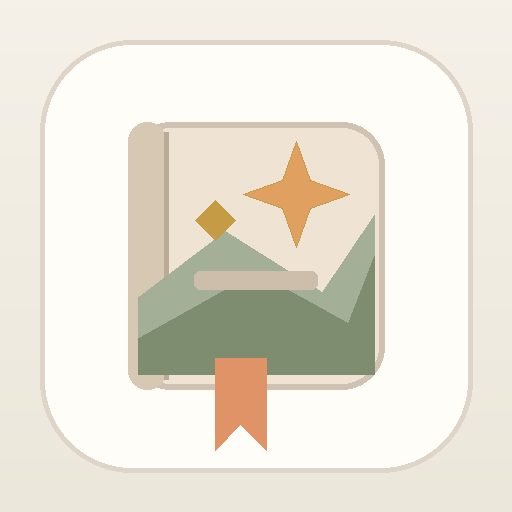
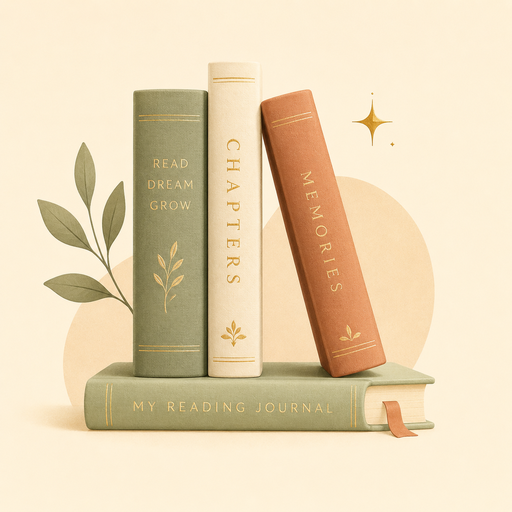
Add files via upload

diff --git a/index.html b/index.html
@@ -1462,6 +1462,62 @@ body,.phone{background:var(--paper)!important;color:var(--ink)!important}
   .backupActionsNew{grid-template-columns:1fr}
 }
 
+
+
+/* ===== v35 field refresh ===== */
+.fieldPageV35{gap:20px}
+.fieldHeroV35New{background:var(--card);border:1px solid var(--line);border-radius:34px;padding:18px;box-shadow:0 14px 32px rgba(85,73,57,.08)}
+.fieldHeroTopV35{display:grid;grid-template-columns:auto minmax(0,1fr) 112px;gap:14px;align-items:start}
+.fieldHeroTextV35 h2{margin:4px 0 0;font-size:33px;line-height:1.04;color:#304131;font-weight:950}
+.fieldHeroAuthorV35{margin-top:6px;color:var(--muted);font-size:16px;font-weight:750}
+.fieldHeroTextV35 p{margin:12px 0 0;color:var(--muted);font-size:15px;line-height:1.55;max-width:42ch}
+.fieldHeroCoverV35 .cover{min-height:146px;border-radius:24px;padding:12px}
+.fieldHeroCoverV35 .coverTitle{font-size:22px}
+.fieldHeroChipsV35{display:flex;flex-wrap:wrap;gap:10px;margin-top:14px}
+.fieldInfoChipV35{display:inline-flex;align-items:center;gap:6px;padding:9px 14px;border-radius:999px;background:#f4efe6;border:1px solid var(--line);color:#6b6357;font-size:13px;font-weight:850}
+.fieldInfoChipV35 b{font-size:14px;color:#304131}
+.fieldSnapshotGridV35{display:grid;grid-template-columns:repeat(2,minmax(0,1fr));gap:10px;margin-top:16px}
+.fieldSnapshotV35{background:#fcfaf5;border:1px solid var(--line);border-radius:22px;padding:14px 15px;display:grid;gap:6px;min-height:110px}
+.fieldSnapshotV35 span{font-size:12px;font-weight:900;letter-spacing:.06em;text-transform:uppercase;color:#aba092}
+.fieldSnapshotV35 strong{font-size:24px;line-height:1.1;color:#2f4331;font-weight:900}
+.fieldSnapshotV35 small{font-size:13px;line-height:1.45;color:var(--muted);font-weight:700}
+.fieldGridV35{display:grid;grid-template-columns:repeat(2,minmax(0,1fr));gap:16px}
+.fieldCardV35{background:var(--card);border:1px solid var(--line);border-radius:30px;padding:18px;box-shadow:0 12px 28px rgba(85,73,57,.06)}
+.fieldCardV35.span2{grid-column:1/-1}
+.fieldCardHeadV35{display:flex;align-items:flex-start;justify-content:space-between;gap:12px;margin-bottom:14px}
+.fieldCardHeadV35 h3{margin:0;color:#2f4331;font-size:23px;font-weight:900}
+.fieldCardHeadV35 p{margin:6px 0 0;color:var(--muted);font-size:14px;line-height:1.45}
+.fieldCardHeadV35.split{align-items:center}
+.fieldLeadValueV35{font-size:46px;line-height:1;color:#2d2b26;font-weight:800;white-space:nowrap}
+.progressCardV35 .editorPercentRow.compact{grid-template-columns:94px 1fr;align-items:center}
+.fieldProgressSplitV35{display:grid;grid-template-columns:minmax(0,.72fr) minmax(0,1.28fr);gap:14px}
+.fieldProgressColumnV35{display:grid;gap:10px}
+.fieldProgressColumnV35 label{font-size:13px;font-weight:900;color:#6f675c}
+.fieldTinyNoteV35,.fieldTipV35{color:var(--muted);font-size:13px;line-height:1.45}
+.editorTextArea.tall{min-height:150px}
+.fieldMoodCurrentV35{margin-bottom:12px;padding:12px 14px;border-radius:18px;background:#f6f1e7;border:1px solid var(--line);font-size:14px;color:#6d6559;font-weight:800}
+.fieldMoodCurrentV35 b{color:#304131}
+.fieldTagsV35{gap:10px}
+.fieldCardFooterV35{display:flex;align-items:center;justify-content:space-between;gap:12px;flex-wrap:wrap;margin-top:12px}
+.fieldCharacterStripV35{margin-bottom:14px}
+.fieldSelectedCharV35{background:#f7f2e8;border:1px solid var(--line)}
+.fieldSelectedCharTopV35{display:flex;align-items:flex-start;justify-content:space-between;gap:12px;margin-bottom:10px}
+.fieldSelectedCharNameV35{font-size:19px;font-weight:900;color:#2d2a25}
+.fieldSelectedCharMetaV35{padding:8px 12px;border-radius:999px;background:#fbf7f0;border:1px solid var(--line);font-size:13px;color:#6b6357;font-weight:800}
+.fieldSubSectionTitleV35{font-size:18px;font-weight:900;color:#2f4331;margin-bottom:10px}
+.fieldMomentsListV35{gap:12px}
+.fieldMomentsListV35 .momentCardNew{background:#fcfaf5}
+@media (max-width:720px){
+  .fieldHeroTopV35{grid-template-columns:auto 1fr}
+  .fieldHeroCoverV35{grid-column:1/-1;max-width:120px}
+  .fieldGridV35,.fieldProgressSplitV35{grid-template-columns:1fr}
+}
+@media (max-width:420px){
+  .fieldHeroTextV35 h2{font-size:29px}
+  .fieldLeadValueV35{font-size:40px}
+  .fieldSnapshotGridV35{grid-template-columns:1fr}
+}
+
 </style>
 </head>
 <body>
@@ -1726,7 +1782,7 @@ function miniIcon(type){
     return `<span class="ratingSvg"><svg viewBox="0 0 24 24" aria-hidden="true"><path fill="currentColor" d="M12 3.8l2.4 4.9 5.4.8-3.9 3.8.9 5.4-4.8-2.5-4.8 2.5.9-5.4L4.2 9.5l5.4-.8L12 3.8z"/></svg></span>`;
   }
   if(type==='pepper'){
-    return `<span class="ratingSvg"><svg viewBox="0 0 24 24" aria-hidden="true"><path fill="currentColor" d="M13.7 6.2c3.7 1.1 6.2 4.7 5.2 8.4-.8 3.1-3.6 5.4-7.1 5.7-2.7.2-5.2-.7-6.7-2.4-1.4-1.6-1.6-3.7-.4-5.1.9-1.1 2.2-1.3 3.7-1.2.7.1 1.2-.2 1.4-.9.6-2.2 1.8-3.8 3.9-4.5z"/><path fill="#ffb45f" d="M13.3 6.8c-.4-2.3.6-3.9 2.8-4.7.6-.2 1.1.4.8 1-.5.8-.8 1.5-.7 2.4 1-.6 2-.5 3 .2.6.4.4 1.3-.3 1.4-1.9.3-3.5.3-5.6-.3z"/></svg></span>`;
+    return `<span class="ratingSvg"><svg viewBox="0 0 24 24" aria-hidden="true"><path fill="currentColor" d="M12.7 2.7c2.3 3 .9 5.2-.2 6.7 2.6-.2 5 1 6.4 3.1 1.8 2.7 1.6 6.4-.5 8.9-1.6 2-4 3.1-6.6 3.1-2.2 0-4.4-.9-6-2.4-3.1-2.9-3.1-8-.1-11.3 1-1 2.1-1.7 3.4-2.1-.2-1.8.4-3.9 2.4-6 .3-.3.9-.3 1.2 0z"/><path fill="#ffb45f" d="M12.4 6.1c.8 1.6.5 3.3-.6 4.8-.5.7-.1 1.6.8 1.6 1.9-.1 3.6.7 4.5 2.1 1.2 1.8 1 4.4-.5 6-1 1.2-2.5 1.8-4.1 1.8-1.4 0-2.9-.5-3.9-1.5-2-1.8-2-5.2 0-7.4 1-1.1 2.3-1.7 3.8-1.8-.7-1.6-.7-3.4 0-5.6z"/></svg></span>`;
   }
   if(type==='broken'){
     return `<span class="ratingSvg"><svg viewBox="0 0 24 24" aria-hidden="true"><path fill="currentColor" d="M11.3 20.2s-6.9-4.3-8.8-8.7C1 8.1 1.1 4.7 4.2 3.3c2-.9 3.8 0 5 1.4l1.7 2.3-2 2.4 2.5 2.1-1.7 3.2 3.2-3.5-2.3-2 2-2.8c.9-1.9 3-4.2 6.1-3 3.1 1.2 3.2 4.8 1.7 8.1-1.9 4.4-8.8 8.7-8.8 8.7l-.3-.2z"/></svg></span>`;
@@ -1769,48 +1825,135 @@ function renderField(){
   const c=S.current;
   if(!c){document.getElementById('field').innerHTML='';return}
   const selectedChar=(c.characters||[]).find(x=>x.id===editingCharId)||null;
+  const updatesCount=(c.updates||[]).length;
+  const quoteCount=(c.updates||[]).filter(u=>u.type==='quote').length;
+  const noteCount=(c.updates||[]).filter(u=>u.type==='note').length;
+  const mood=c.lastMood||'עוד לא נשמר וייב';
+  const charCount=(c.characters||[]).length;
   document.getElementById('field').innerHTML=`
-    <div class="fieldPageNew">
-      <div class="fieldHeaderNew">
-        <button class="iconBtn" onclick="show('home')">${uiIcon('arrow')}</button>
-        <div class="fieldHeaderText"><div class="eyebrow">עדכון מהשטח</div><h2>${esc(c.title)}</h2><p>${esc(c.author)}</p></div>
-        <div class="fieldHeaderCover">${coverHtml(c.title,c.author)}</div>
-      </div>
-      <div class="editorPanelGrid">
-        <section class="editorCard wide">
-          <div class="editorCardHead"><div><h3>איפה אני עכשיו?</h3><p>עדכון מהיר של אחוז ומחשבה קצרה מהקטע האחרון.</p></div><strong>${pct(c.percent)}%</strong></div>
-          <div class="editorPercentRow"><input id="percentInput" class="input" type="number" min="0" max="100" value="${pct(c.percent)}"><button class="saveBtn" onclick="savePercent()">שמירה</button></div>
-          <textarea id="percentNote" class="textarea editorTextArea" placeholder="מחשבה קצרה? לא חובה"></textarea>
+    <div class="fieldPageNew fieldPageV35">
+      <section class="fieldHeroV35New">
+        <div class="fieldHeroTopV35">
+          <button class="iconBtn" onclick="show('home')">${uiIcon('arrow')}</button>
+          <div class="fieldHeroTextV35">
+            <div class="eyebrow">עדכון מהשטח</div>
+            <h2>${esc(c.title)}</h2>
+            <div class="fieldHeroAuthorV35">${esc(c.author)}</div>
+            <p>כאן את שומרת את כל מה שקורה תוך כדי קריאה — בלי לפזר את זה בין מסכים.</p>
+            <div class="fieldHeroChipsV35">
+              <span class="fieldInfoChipV35"><b>${pct(c.percent)}%</b> התקדמות</span>
+              <span class="fieldInfoChipV35">${esc(mood)}</span>
+              <span class="fieldInfoChipV35">${updatesCount} רגעים שמורים</span>
+            </div>
+          </div>
+          <div class="fieldHeroCoverV35">${coverHtml(c.title,c.author)}</div>
+        </div>
+        <div class="fieldSnapshotGridV35">
+          <div class="fieldSnapshotV35"><span>אחוז נוכחי</span><strong>${pct(c.percent)}%</strong><small>עדכון אחד קטן והכול נשמר בציר.</small></div>
+          <div class="fieldSnapshotV35"><span>מה הוייב</span><strong>${esc(mood)}</strong><small>אפשר לבחור תגית קיימת או להוסיף משלך.</small></div>
+          <div class="fieldSnapshotV35"><span>דמויות</span><strong>${charCount}</strong><small>${charCount?`כרגע יש ${charCount} דמויות שמורות.`:'עוד לא נוספו דמויות.'}</small></div>
+          <div class="fieldSnapshotV35"><span>רגעים שמורים</span><strong>${updatesCount}</strong><small>${quoteCount} ציטוטים · ${noteCount} רגעי עלילה</small></div>
+        </div>
+      </section>
+
+      <div class="fieldGridV35">
+        <section class="fieldCardV35 span2 progressCardV35">
+          <div class="fieldCardHeadV35 split">
+            <div>
+              <h3>איפה אני עכשיו?</h3>
+              <p>עדכון מהיר של האחוז יחד עם מחשבה קטנה מהקטע האחרון.</p>
+            </div>
+            <div class="fieldLeadValueV35">${pct(c.percent)}%</div>
+          </div>
+          <div class="fieldProgressSplitV35">
+            <div class="fieldProgressColumnV35">
+              <label>אחוז נוכחי</label>
+              <div class="editorPercentRow compact">
+                <input id="percentInput" class="input" type="number" min="0" max="100" value="${pct(c.percent)}">
+                <button class="saveBtn" onclick="savePercent()">שומרת</button>
+              </div>
+              <div class="fieldTinyNoteV35">אפשר לעדכן רק אחוז, ואפשר להוסיף גם מחשבה קטנה.</div>
+            </div>
+            <div class="fieldProgressColumnV35">
+              <label>מה נשאר לי מהקטע האחרון?</label>
+              <textarea id="percentNote" class="textarea editorTextArea" placeholder="מחשבה קצרה? משפט אחד גם מספיק"></textarea>
+            </div>
+          </div>
         </section>
-        <section class="editorCard">
-          <div class="editorCardHead"><div><h3>מה הוייב?</h3><p>אפשר לבחור תגית מהרשימה, או להוסיף תגית משלך שתישמר גם לספרים הבאים.</p></div></div>
-          <div class="tagsWrap">${allMoodTags().map(m=>`<button class="tagChipNew ${c.lastMood===m?'on':''}" onclick="saveMood('${jsEsc(m)}')">${esc(m)}</button>`).join('')}</div>
-          <div class="editorActionsRow"><button class="secondaryPill tagAddBtn" onclick="addCustomMoodTag()">+ תגית וייב משלי</button></div>
+
+        <section class="fieldCardV35">
+          <div class="fieldCardHeadV35">
+            <div>
+              <h3>מה הוייב?</h3>
+              <p>בחרי תגית אחת שמסכמת את ההרגשה כרגע.</p>
+            </div>
+          </div>
+          <div class="fieldMoodCurrentV35">כרגע: <b>${esc(mood)}</b></div>
+          <div class="tagsWrap fieldTagsV35">${allMoodTags().map(m=>`<button class="tagChipNew ${c.lastMood===m?'on':''}" onclick="saveMood('${jsEsc(m)}')">${esc(m)}</button>`).join('')}</div>
+          <div class="fieldCardFooterV35">
+            <div class="fieldTipV35">תגיות וייב שתוסיפי יישמרו גם לספרים הבאים.</div>
+            <button class="secondaryPill tagAddBtn" onclick="addCustomMoodTag()">+ תגית וייב משלי</button>
+          </div>
         </section>
-        <section class="editorCard">
-          <div class="editorCardHead"><div><h3>מה קורה עכשיו?</h3><p>רגע קצר לשמור מהעלילה, בלי לסבך אותך.</p></div></div>
-          <textarea id="noteText" class="textarea editorTextArea" placeholder="מה קרה עכשיו בספר? מי עצבן? מי ריגש? מה חייב להישמר?"></textarea>
-          <div class="editorActionsRow"><button class="primaryPill" onclick="saveText('note')">שומרת רגע</button></div>
+
+        <section class="fieldCardV35">
+          <div class="fieldCardHeadV35">
+            <div>
+              <h3>מה קורה עכשיו?</h3>
+              <p>רגע קצר לשמור מהעלילה, בלי לכתוב מגילה.</p>
+            </div>
+          </div>
+          <textarea id="noteText" class="textarea editorTextArea tall" placeholder="מה קרה עכשיו בספר? מי עצבן? מי ריגש? מה חייב להישמר?"></textarea>
+          <div class="fieldCardFooterV35">
+            <div class="fieldTipV35">מה שתשמרי כאן ייכנס ישר לציר הרגעים.</div>
+            <button class="primaryPill" onclick="saveText('note')">שומרת רגע</button>
+          </div>
         </section>
-        <section class="editorCard">
-          <div class="editorCardHead"><div><h3>לגזור ולשמור</h3><p>ציטוט, משפט, או שורה שלא בא לך לאבד.</p></div></div>
-          <textarea id="quoteText" class="textarea editorTextArea" placeholder="משפט, ציטוט או רגע קטן שלא בא לך לשכוח"></textarea>
-          <div class="editorActionsRow"><button class="primaryPill" onclick="saveText('quote')">שומרת ציטוט</button></div>
+
+        <section class="fieldCardV35">
+          <div class="fieldCardHeadV35">
+            <div>
+              <h3>לגזור ולשמור</h3>
+              <p>ציטוט, שורה, או משפט קטן שלא בא לך לאבד.</p>
+            </div>
+          </div>
+          <textarea id="quoteText" class="textarea editorTextArea tall" placeholder="משפט, ציטוט או קטע קטן שלא בא לך לשכוח"></textarea>
+          <div class="fieldCardFooterV35">
+            <div class="fieldTipV35">הציטוטים יופיעו גם אחר כך בסיכום ובמדף.</div>
+            <button class="primaryPill" onclick="saveText('quote')">שומרת ציטוט</button>
+          </div>
         </section>
-        <section class="editorCard wide">
-          <div class="editorCardHead"><div><h3>דמויות</h3><p>כאן את יכולה לעדכן מה את חושבת עליהן, וגם להוסיף תגיות משלך לשימוש קבוע.</p></div></div>
-          ${(c.characters||[]).length?`<div class="characterStrip">${c.characters.map(ch=>`<button class="charToken ${editingCharId===ch.id?'on':''}" onclick="toggleCharEdit('${ch.id}')"><b>${esc(ch.name)}</b><small>${esc(ch.tag||'בלי תגית')}</small></button>`).join('')}</div>`:`<div class="editorHelper" style="margin-bottom:14px">עוד לא נוספו דמויות. תוסיפי דמות ראשונה כאן למטה.</div>`}
-          ${selectedChar?`<div class="characterEditBox"><div style="font-weight:900;color:#2d2a25;margin-bottom:8px">${esc(selectedChar.name)}</div><div class="editorHelper" style="margin-bottom:10px">לעדכן מה את חושבת עליה עכשיו</div><div class="tagsWrap">${allCharTags().map(t=>`<button class="tagChipNew ${selectedChar.tag===t?'on':''}" onclick="updateCharacterTag('${selectedChar.id}','${jsEsc(t)}')">${esc(t)}</button>`).join('')}</div><div class="genderRow"><button class="genderPill ${selectedChar.gender==='זכר'?'on':''}" onclick="updateCharacterGender('${selectedChar.id}','זכר')">זכר</button><button class="genderPill ${selectedChar.gender==='נקבה'?'on':''}" onclick="updateCharacterGender('${selectedChar.id}','נקבה')">נקבה</button><button class="secondaryPill" onclick="deleteChar('${selectedChar.id}')">מחיקה</button></div></div>`:''}
+
+        <section class="fieldCardV35 span2">
+          <div class="fieldCardHeadV35">
+            <div>
+              <h3>דמויות</h3>
+              <p>לעדכן מה את חושבת עליהן עכשיו, ולהוסיף תגיות משלך שיישמרו הלאה.</p>
+            </div>
+          </div>
+          ${(c.characters||[]).length?`<div class="characterStrip fieldCharacterStripV35">${c.characters.map(ch=>`<button class="charToken ${editingCharId===ch.id?'on':''}" onclick="toggleCharEdit('${ch.id}')"><b>${esc(ch.name)}</b><small>${esc(ch.tag||'בלי תגית')}</small></button>`).join('')}</div>`:`<div class="editorHelper" style="margin-bottom:14px">עוד לא נוספו דמויות. תוסיפי דמות ראשונה כאן למטה.</div>`}
+          ${selectedChar?`<div class="characterEditBox fieldSelectedCharV35"><div class="fieldSelectedCharTopV35"><div><div class="fieldSelectedCharNameV35">${esc(selectedChar.name)}</div><div class="editorHelper">לעדכן מה את חושבת עליה עכשיו</div></div><div class="fieldSelectedCharMetaV35">${esc(selectedChar.gender||'')}</div></div><div class="tagsWrap fieldTagsV35">${allCharTags().map(t=>`<button class="tagChipNew ${selectedChar.tag===t?'on':''}" onclick="updateCharacterTag('${selectedChar.id}','${jsEsc(t)}')">${esc(t)}</button>`).join('')}</div><div class="genderRow"><button class="genderPill ${selectedChar.gender==='זכר'?'on':''}" onclick="updateCharacterGender('${selectedChar.id}','זכר')">זכר</button><button class="genderPill ${selectedChar.gender==='נקבה'?'on':''}" onclick="updateCharacterGender('${selectedChar.id}','נקבה')">נקבה</button><button class="secondaryPill" onclick="deleteChar('${selectedChar.id}')">מחיקה</button></div></div>`:''}
           <div class="sectionDivider"></div>
-          <div style="font-weight:900;color:#2f4331;margin-bottom:8px">להוסיף דמות חדשה</div>
-          <input id="charName" class="input" placeholder="שם הדמות" value="${esc(pendingCharName)}" oninput="pendingCharName=this.value">
-          <div class="genderRow"><button class="genderPill ${pickedGender==='זכר'?'on':''}" onclick="pickGender('זכר')">זכר</button><button class="genderPill ${pickedGender==='נקבה'?'on':''}" onclick="pickGender('נקבה')">נקבה</button></div>
-          <div class="tagsWrap">${allCharTags().map(t=>`<button class="tagChipNew" onclick="saveCharacter('${jsEsc(t)}')">${esc(t)}</button>`).join('')}</div>
-          <div class="editorActionsRow"><button class="secondaryPill" onclick="addCustomCharTag()">+ תגית דמות משלי</button></div>
+          <div class="fieldAddCharacterV35">
+            <div class="fieldSubSectionTitleV35">להוסיף דמות חדשה</div>
+            <input id="charName" class="input" placeholder="שם הדמות" value="${esc(pendingCharName)}" oninput="pendingCharName=this.value">
+            <div class="genderRow"><button class="genderPill ${pickedGender==='זכר'?'on':''}" onclick="pickGender('זכר')">זכר</button><button class="genderPill ${pickedGender==='נקבה'?'on':''}" onclick="pickGender('נקבה')">נקבה</button></div>
+            <div class="tagsWrap fieldTagsV35">${allCharTags().map(t=>`<button class="tagChipNew" onclick="saveCharacter('${jsEsc(t)}')">${esc(t)}</button>`).join('')}</div>
+            <div class="fieldCardFooterV35">
+              <div class="fieldTipV35">גם תגיות דמות חדשות שתוסיפי יישמרו לשימוש קבוע.</div>
+              <button class="secondaryPill" onclick="addCustomCharTag()">+ תגית דמות משלי</button>
+            </div>
+          </div>
         </section>
-        <section class="editorCard wide">
-          <div class="editorCardHead"><div><h3>רגעים אחרונים מהשטח</h3><p>הציר נשמר כדי שתוכלי לחזור אליו גם בסיכום.</p></div></div>
-          ${c.updates.length?`<div class="momentColumnNew">${c.updates.slice(0,6).map(u=>`<div class="momentCardNew">${momentHtml(u)}</div>`).join('')}</div>`:`<div class="emptyNew">עוד אין רגעים שמורים. ברגע שתעדכני — הם יופיעו כאן.</div>`}
+
+        <section class="fieldCardV35 span2">
+          <div class="fieldCardHeadV35">
+            <div>
+              <h3>רגעים אחרונים מהשטח</h3>
+              <p>הציר נשמר כדי שתוכלי לחזור אליו גם בסיכום וגם במדף.</p>
+            </div>
+          </div>
+          ${c.updates.length?`<div class="momentColumnNew fieldMomentsListV35">${c.updates.slice(0,8).map(u=>`<div class="momentCardNew">${momentHtml(u)}</div>`).join('')}</div>`:`<div class="emptyNew">עוד אין רגעים שמורים. ברגע שתעדכני — הם יופיעו כאן.</div>`}
         </section>
       </div>
     </div>`;

diff --git a/sw.js b/sw.js
@@ -1,5 +1,5 @@
-const CACHE_NAME='od-perek-ehad-v28';
+const CACHE='od-perek-ehad-v35';
 const ASSETS=['./','./index.html','./manifest.webmanifest','./icon-192.png','./icon-512.png','./apple-touch-icon.png'];
-self.addEventListener('install',e=>{e.waitUntil(caches.open(CACHE_NAME).then(c=>c.addAll(ASSETS)).then(()=>self.skipWaiting()))});
-self.addEventListener('activate',e=>{e.waitUntil(caches.keys().then(keys=>Promise.all(keys.filter(k=>k!==CACHE_NAME).map(k=>caches.delete(k)))).then(()=>self.clients.claim()))});
-self.addEventListener('fetch',e=>{e.respondWith(caches.match(e.request).then(r=>r||fetch(e.request)))});
+self.addEventListener('install',event=>{event.waitUntil(caches.open(CACHE).then(cache=>cache.addAll(ASSETS)).then(()=>self.skipWaiting()))});
+self.addEventListener('activate',event=>{event.waitUntil(caches.keys().then(keys=>Promise.all(keys.filter(k=>k!==CACHE).map(k=>caches.delete(k)))).then(()=>self.clients.claim()))});
+self.addEventListener('fetch',event=>{if(event.request.method!=='GET')return;event.respondWith(caches.match(event.request).then(hit=>hit||fetch(event.request).then(res=>{const copy=res.clone();caches.open(CACHE).then(cache=>cache.put(event.request,copy)).catch(()=>{});return res;}).catch(()=>hit)))});

diff --git a/README.md b/README.md
@@ -1,35 +1,11 @@
-# עוד פרק אחד — v20
+# עוד פרק אחד — v35
 
-עדכון עיצובי ממוקד:
-- עיגול ההתקדמות עודן והפך למד מצב קטן ושקט יותר.
-- מסך סיימתי ספר עודכן לשפה רכה יותר: “סוגרת ספר”, “החותמת שלי”, “מה נשאר לי ממנו”.
-- בלי שפת גזר דין / פסק דין.
-- נשמרו פיצ׳רי v19: עוד וייבים ועדכון דמויות מתוך עדכון מהשטח.
-- גיבוי ושחזור נשארו במסך הסטטיסטיקה.
-
-
-V21: redesigned “עדכון מהשטח” as a command center with quick cards and timeline, refined progress ring, and replaced the heart icon.
-
-
-V22: replaced the home progress ring with a large percent + thin progress line, swapped generic heart usage to spark, and simplified the top/home vibe icons.
-
-
-V23: softened the home progress emphasis and redesigned the summary/closing screen into a softer wrap-up ritual.
-
-
-V24: reduced the home progress emphasis even more and replaced the love-rating heart icon in the summary screen with a cleaner star icon.
-
-
-V25: redesigned the statistics screen into a richer personality-driven overview with diagnosis, reading habits, leaders, recurring patterns, and backup/restore retained.
-
-
-V26: redesigned the shelf screen with a richer hero, refined search/tools, and more expressive book cards while keeping sorting and filtering.
-
-
-V27: replaced app icons with the selected full-square neon book icon.
-
-
-V28: expanded character tags for in-progress updates and final summary, improved chip spacing, and restored manifest/service worker files for PWA install/update.
-
-
-V29: hotfix for shelf render crash caused by active filter count calculation.
+מה חדש בגרסה הזאת:
+- מסך **עדכון מהשטח** נבנה מחדש בשפה העריכתית החדשה, כדי שירגיש כמו מסך חדש ולא רק צבעים שונים על הישן.
+- נבנה הירו חדש עם סיכום מצב קריאה, וייב נוכחי, דמויות ורגעים שמורים.
+- כרטיס **איפה אני עכשיו?** עוצב מחדש עם פריסה ברורה יותר לעדכון אחוז + מחשבה קצרה.
+- מסכי **וייב**, **מה קורה עכשיו**, **לגזור ולשמור** ו**דמויות** קיבלו מבנה נקי ומאוורר יותר.
+- נשמרה האפשרות להוסיף **תגיות וייב** ו**תגיות דמות** אישיות, והן ממשיכות עם האפליקציה גם לספרים הבאים.
+- אייקון האפליקציה הוחלף לאייקון הספרים שנבחר.
+- מדד **לוהט** קיבל אייקון ברור יותר בסגנון להבה, כדי שלא ירגיש לא מובן.
+- נוספו שוב קבצי **manifest** ו-**service worker** כדי שההתקנה כ-PWA תישאר תקינה.